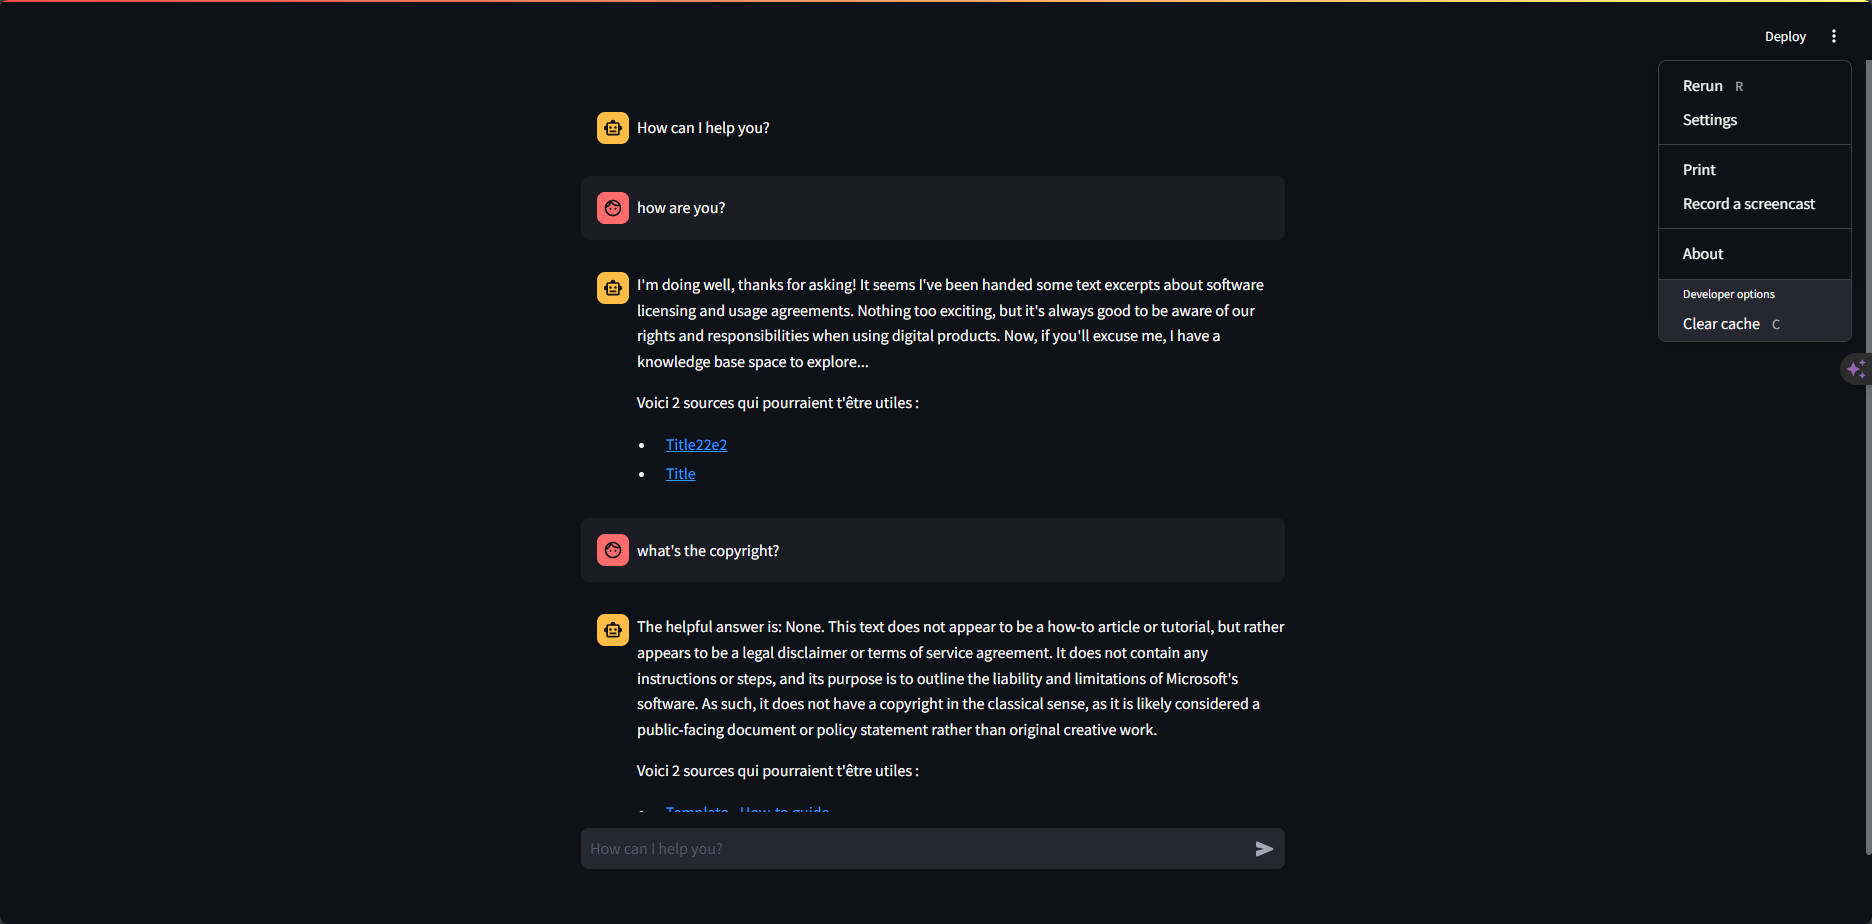
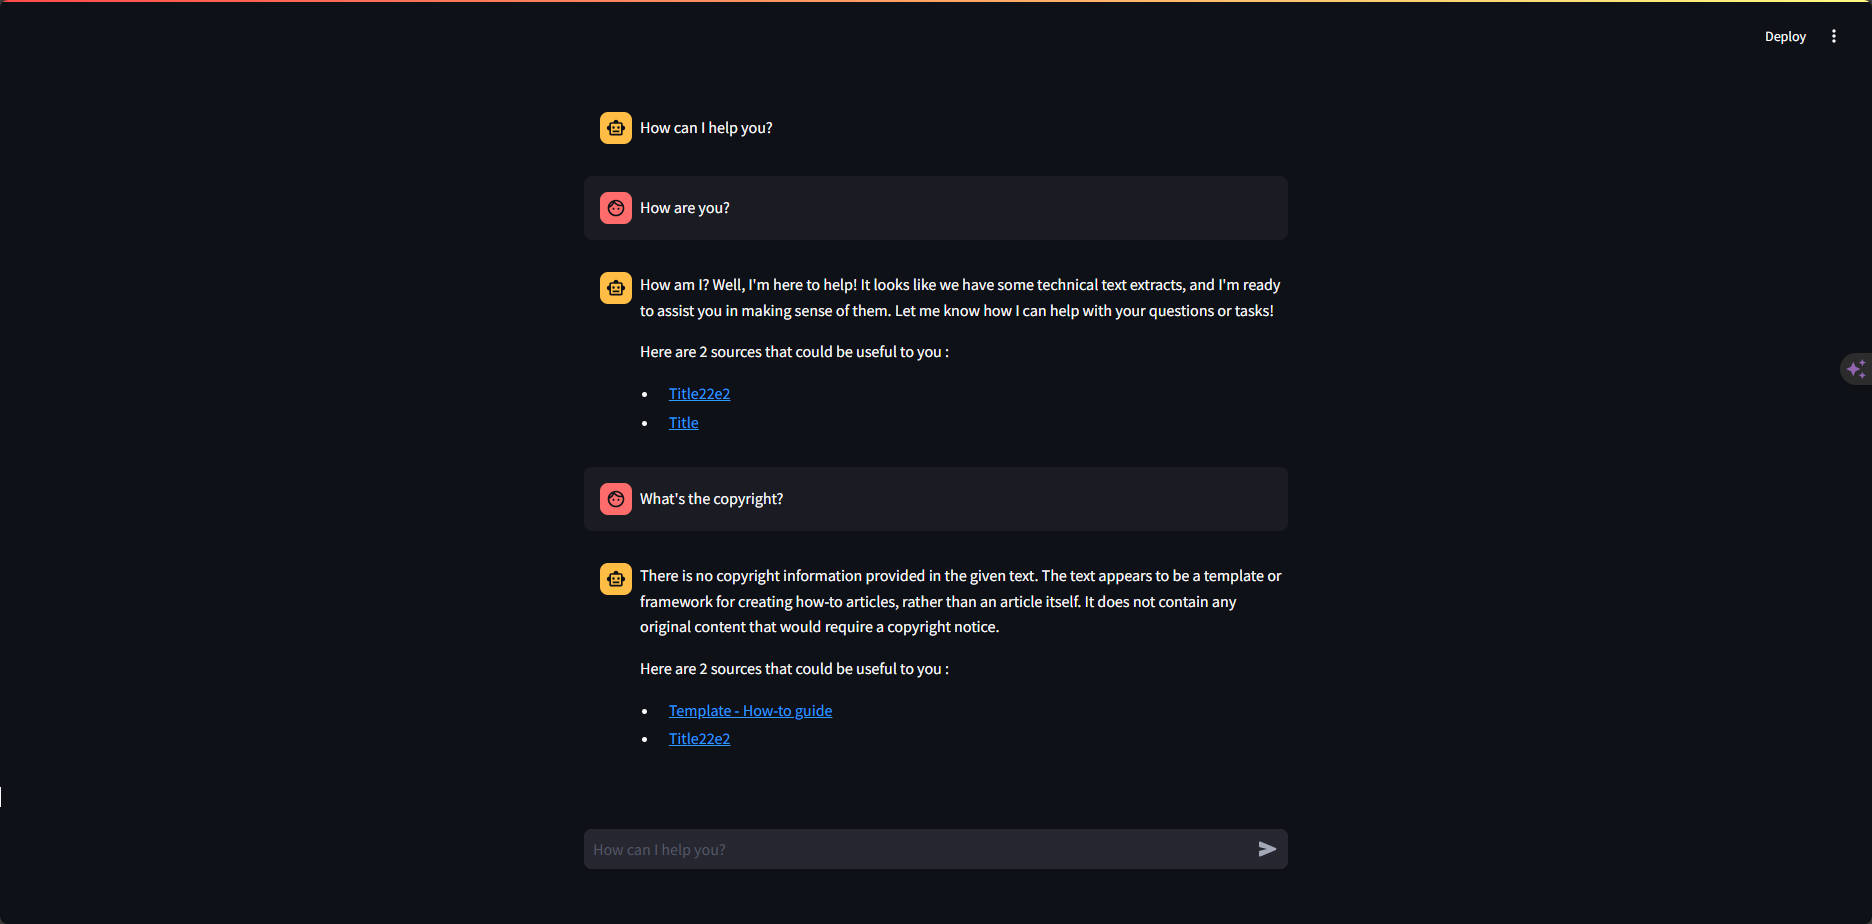
update french characters

diff --git a/src/help_desk.py b/src/help_desk.py
@@ -100,10 +100,10 @@ class HelpDesk():
             distinct_sources_str = "  \n- ".join(distinct_sources)
 
         if len(distinct_sources) == 1:
-            return f"Voici la source qui pourrait t'être utile :  \n- {distinct_sources_str}"
+            return f"Here is the source that could be useful to you :  \n- {distinct_sources_str}"
 
         elif len(distinct_sources) > 1:
-            return f"Voici {len(distinct_sources)} sources qui pourraient t'être utiles :  \n- {distinct_sources_str}"
+            return f"Here are {len(distinct_sources)} sources that could be useful to you :  \n- {distinct_sources_str}"
 
         else:
-            return "Désolé je n'ai trouvé aucune ressource pour répondre à ta question"
+            return "Sorry, I couldn't find any resources to answer your question."
